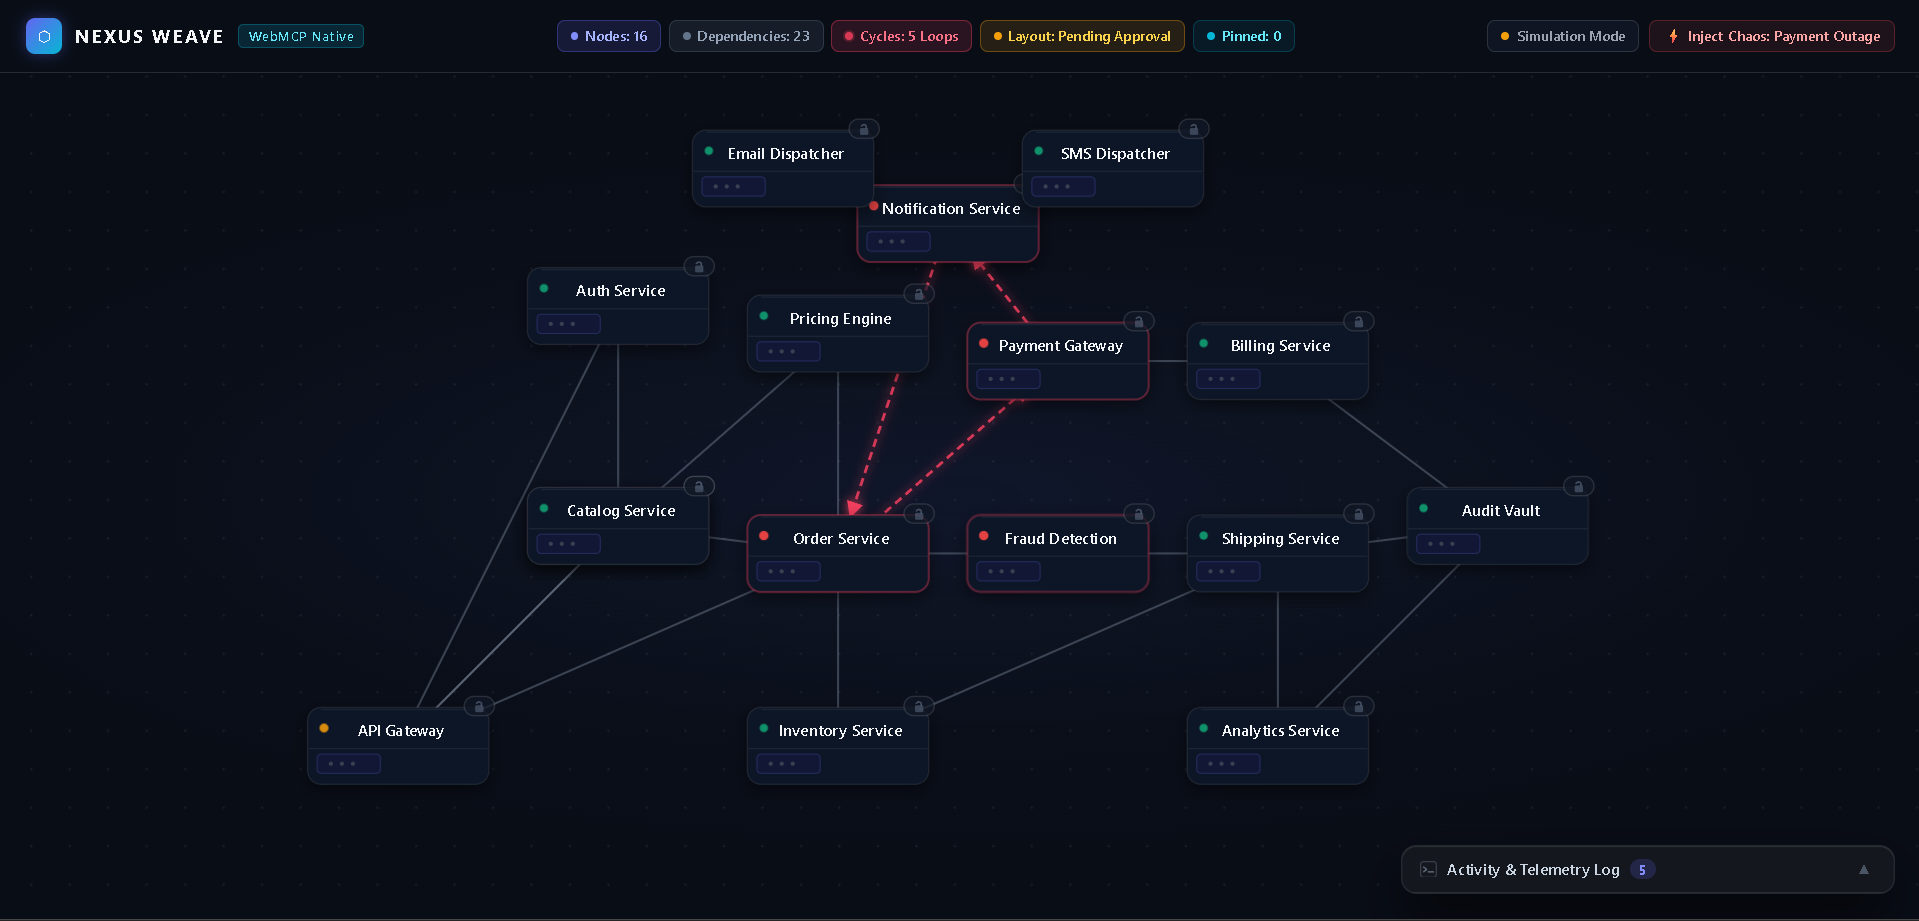
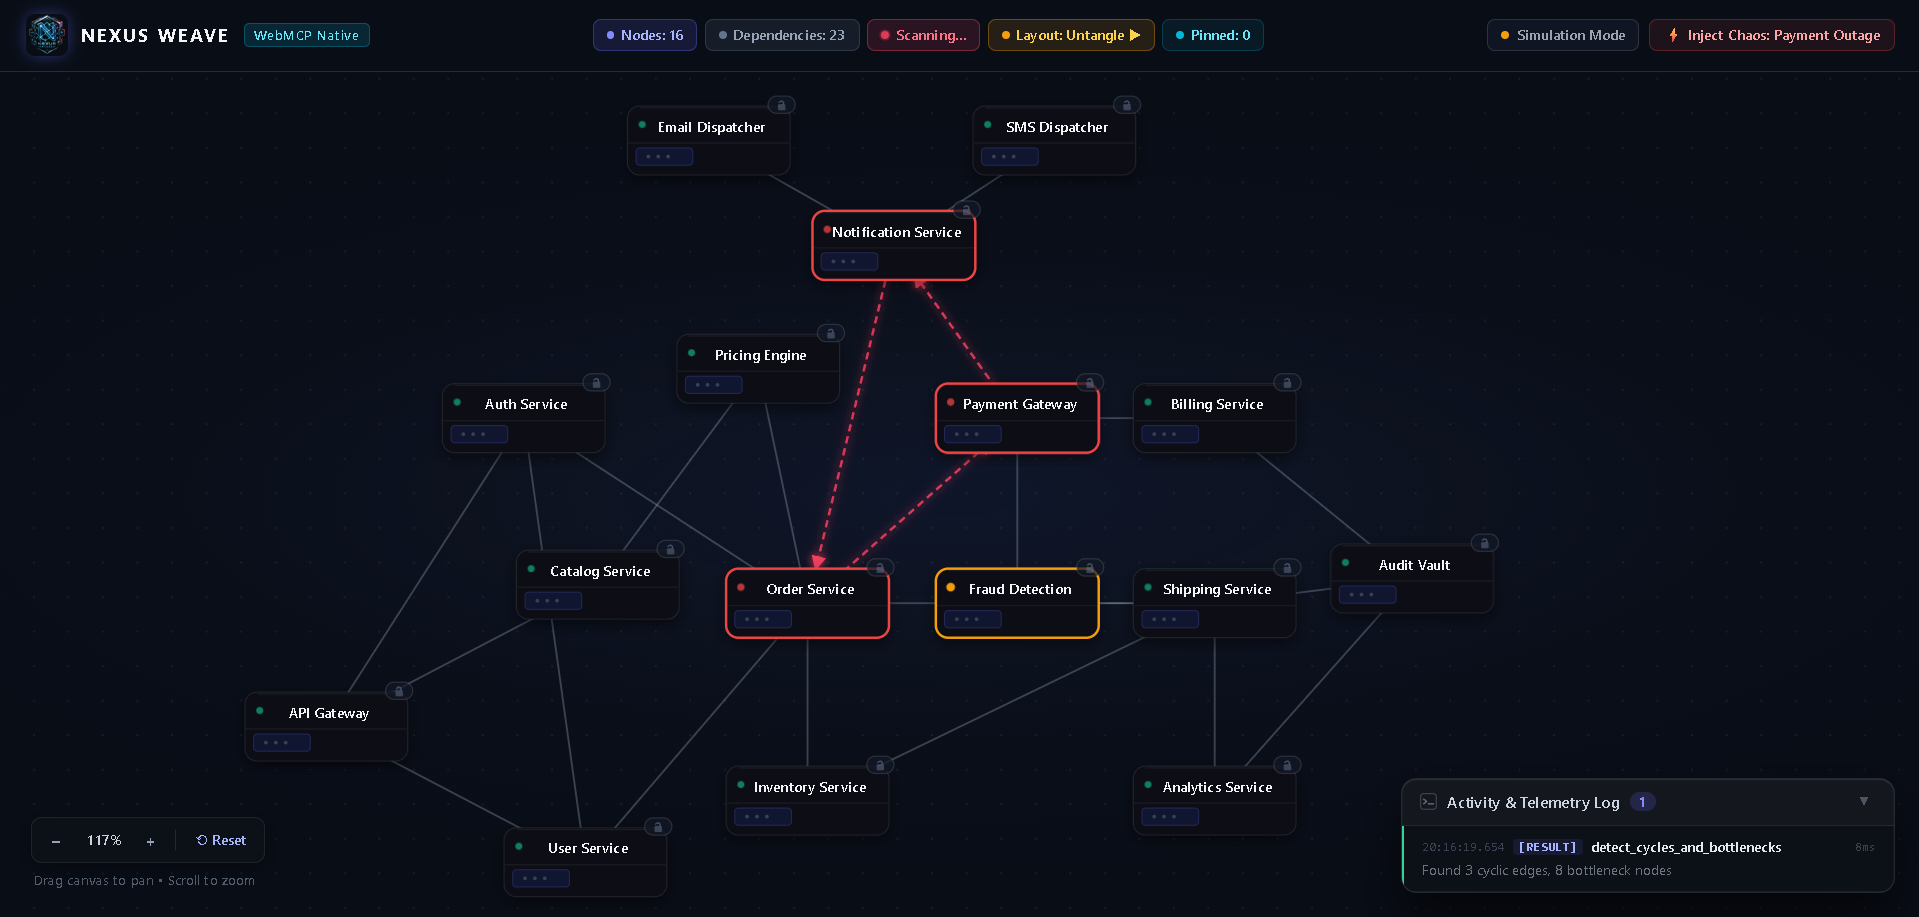
Step 36: Fix stuck 'Scanning...' state on cycles badge after scan completion

diff --git a/tests/unit/ui.test.ts b/tests/unit/ui.test.ts
@@ -52,6 +52,35 @@ class MockElement {
     }
   }
 
+  get classList() {
+    return {
+      add: (...classes: string[]) => {
+        const current = this.className ? this.className.split(/\s+/).filter(Boolean) : [];
+        for (const cls of classes) {
+          if (!current.includes(cls)) current.push(cls);
+        }
+        this.className = current.join(' ');
+      },
+      remove: (...classes: string[]) => {
+        const current = this.className ? this.className.split(/\s+/).filter(Boolean) : [];
+        this.className = current.filter((c) => !classes.includes(c)).join(' ');
+      },
+      contains: (cls: string) => {
+        const current = this.className ? this.className.split(/\s+/).filter(Boolean) : [];
+        return current.includes(cls);
+      },
+      toggle: (cls: string) => {
+        const current = this.className ? this.className.split(/\s+/).filter(Boolean) : [];
+        if (current.includes(cls)) {
+          this.className = current.filter((c) => c !== cls).join(' ');
+        } else {
+          current.push(cls);
+          this.className = current.join(' ');
+        }
+      },
+    };
+  }
+
   setAttribute(k: string, v: string): void {
     this.attributes.set(k, v);
     if (k === 'id') this.id = v;
@@ -62,6 +91,12 @@ class MockElement {
     if (k === 'id') return this.id;
     if (k === 'class') return this.className;
     return this.attributes.get(k) ?? null;
+  }
+
+  removeAttribute(k: string): void {
+    this.attributes.delete(k);
+    if (k === 'id') this.id = '';
+    if (k === 'class') this.className = '';
   }
 
   appendChild(child: MockElement): MockElement {
@@ -475,6 +510,54 @@ describe('Step 16: UI Components & Affordances', () => {
       // Exactly fraud-detection is bottleneck
       const bottleneckIds = Array.from(postBottlenecks).map((el: any) => el.getAttribute('id'));
       expect(bottleneckIds).toEqual(['node-fraud-detection']);
+
+      canvas.destroy();
+    });
+
+    it('updates HUD cycles badge on scan completion and clears busy state to Cycles: 3', () => {
+      const svg = new MockElement('SVG') as unknown as SVGSVGElement;
+      let state = createInitialState();
+      const seed = createSeedGraph();
+      state.graph_nodes = seed.nodes;
+      state.graph_edges = seed.edges;
+
+      // Mock DOM badge elements
+      const badgeCycles = new MockElement('DIV');
+      badgeCycles.id = 'badge-cycles';
+      const cyclesLabel = new MockElement('SPAN');
+      cyclesLabel.id = 'hud-cycles-label';
+      cyclesLabel.textContent = 'Cycles: Scan ▶';
+      badgeCycles.appendChild(cyclesLabel);
+
+      (globalThis as any).document.getElementById = (id: string) => {
+        if (id === 'badge-cycles') return badgeCycles;
+        if (id === 'hud-cycles-label') return cyclesLabel;
+        return null;
+      };
+
+      const canvas = new GraphCanvas({
+        svgElement: svg,
+        getState: () => state,
+        setState: (s) => {
+          state = s;
+        },
+      });
+
+      // 1. Simulate in-flight scan
+      canvas.setHUDBadgeBusy('badge-cycles', 'Scanning…');
+      expect(badgeCycles.getAttribute('aria-disabled')).toBe('true');
+      expect(cyclesLabel.textContent).toBe('Scanning…');
+
+      // 2. Mark edges as cyclic
+      state.graph_edges.e_order_payment.is_cyclic = true;
+      state.graph_edges.e_payment_notif.is_cyclic = true;
+      state.graph_edges.e_notif_order.is_cyclic = true;
+
+      // 3. Clear busy state on completion
+      canvas.clearHUDBadgeBusy('badge-cycles');
+      expect(badgeCycles.getAttribute('aria-disabled')).toBeNull();
+      expect(cyclesLabel.textContent).toBe('Cycles: 3');
+      expect(badgeCycles.classList.contains('danger')).toBe(true);
 
       canvas.destroy();
     });

diff --git a/src/ui/canvas.ts b/src/ui/canvas.ts
@@ -349,15 +349,18 @@ export class GraphCanvas {
 
     if (cyclesLabel && badgeCycles && badgeCycles.getAttribute('aria-disabled') !== 'true') {
       if (cyclicCount > 0) {
-        cyclesLabel.textContent = `Cycles: ${cyclicCount} Loop${cyclicCount > 1 ? 's' : ''}`;
+        cyclesLabel.textContent = `Cycles: ${cyclicCount}`;
         badgeCycles.classList.add('danger');
         badgeCycles.classList.remove('safe');
-      } else if (edges.some((e) => e.is_cyclic !== undefined)) {
+      } else if (edges.some((e) => e.is_cyclic !== null && e.is_cyclic !== undefined)) {
         // Scan was run and found no cycles
         cyclesLabel.textContent = 'Cycles: None';
+        badgeCycles.classList.remove('danger');
+        badgeCycles.classList.add('safe');
       } else {
         // Never scanned
         cyclesLabel.textContent = 'Cycles: Scan ▶';
+        badgeCycles.classList.remove('danger', 'safe');
       }
     }
 
@@ -403,6 +406,7 @@ export class GraphCanvas {
   public clearHUDBadgeBusy(badgeId: string): void {
     const badge = document.getElementById(badgeId);
     if (badge) badge.removeAttribute('aria-disabled');
+    this.updateHUD();
   }
 
   /**
